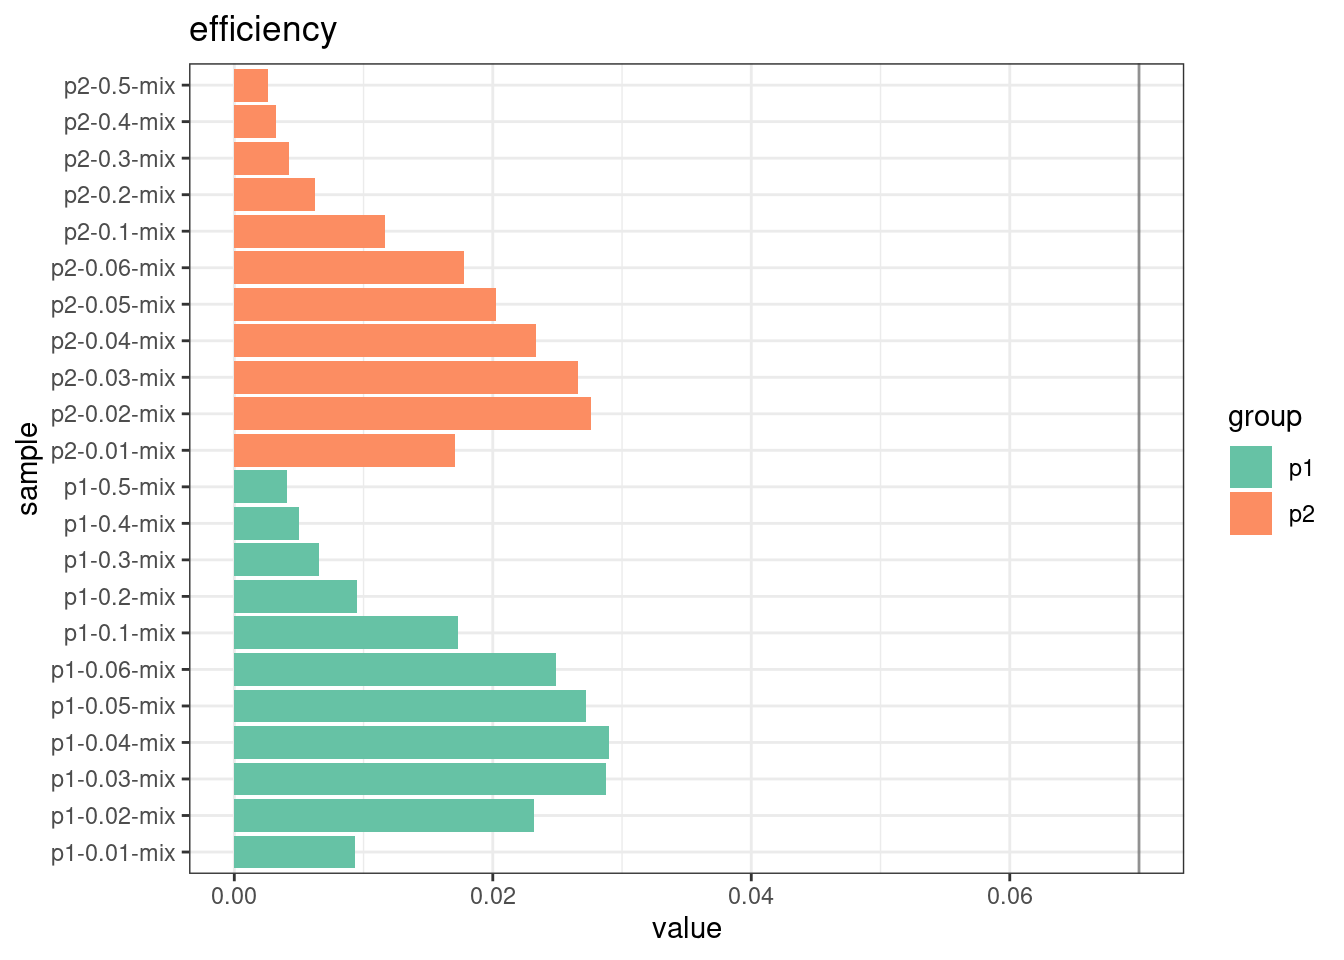
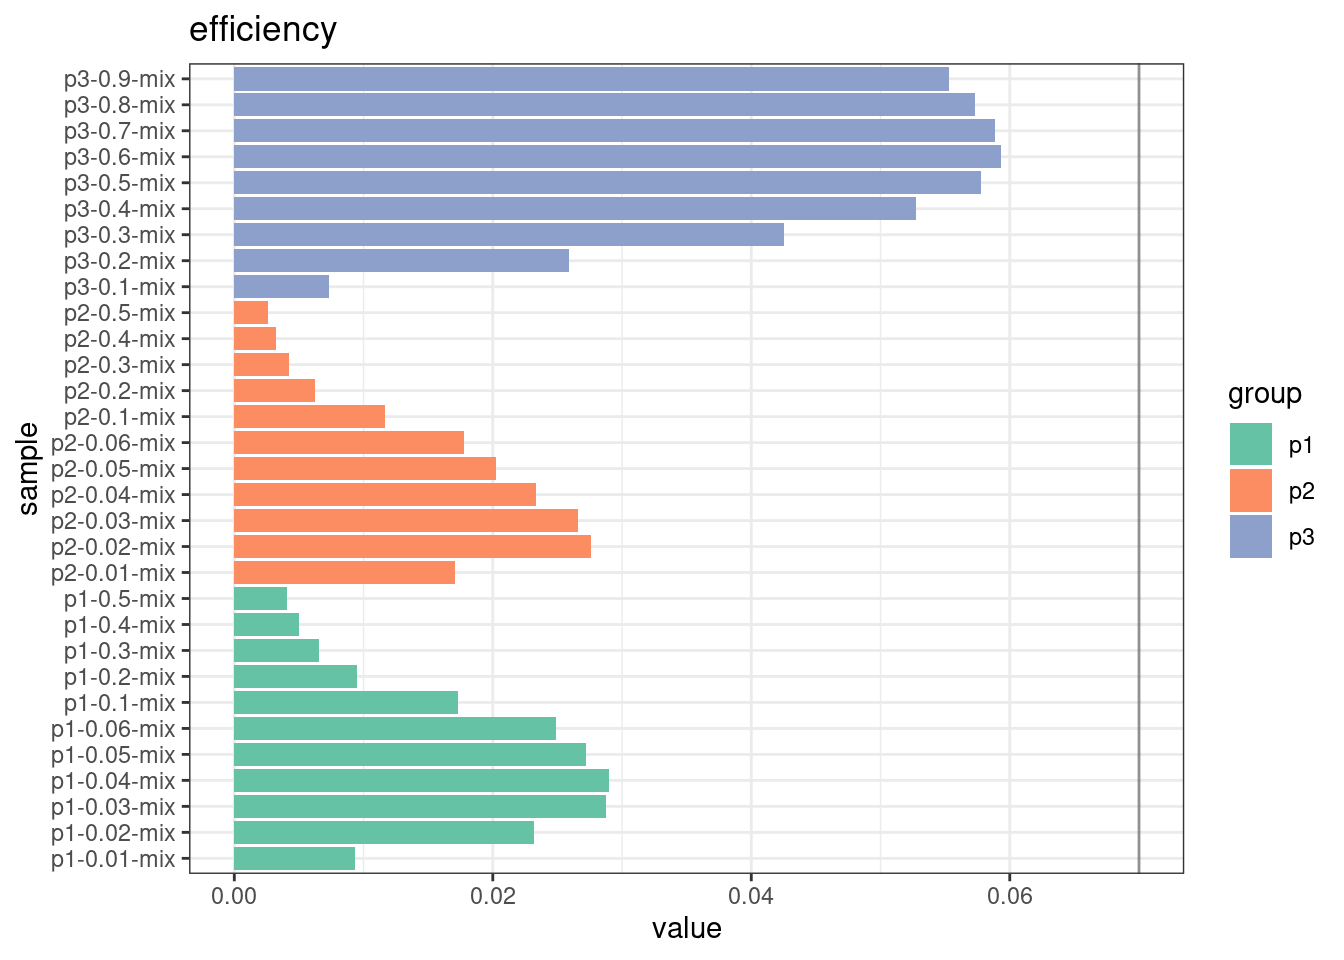
Build site.

Changed region(s): [[0.0312, 0.0625, 0.75, 0.9062], [0.9062, 0.4062, 1.0, 0.5938]]

diff --git a/docs/downsampling.html b/docs/downsampling.html
@@ -407,7 +407,7 @@ class="glyphicon glyphicon-ok text-success" aria-hidden="true"></span>
 <div class="tab-content">
 <div id="summary" class="tab-pane fade in active">
 <p>
-<strong>Last updated:</strong> 2022-08-24
+<strong>Last updated:</strong> 2022-09-09
 </p>
 <p>
 <strong>Checks:</strong> <span
@@ -538,15 +538,15 @@ project makes it easier to run your code on other machines.</p>
 <div class="panel panel-default">
 <div class="panel-heading">
 <p class="panel-title">
-<a data-toggle="collapse" data-parent="#workflowr-checks" href="#strongRepositoryversionstrongahrefhttpsgithubcommcmeroraremutationdetectiontreee66471eae94cc4c363550dad083deddf263110eatargetblanke66471ea">
+<a data-toggle="collapse" data-parent="#workflowr-checks" href="#strongRepositoryversionstrongahrefhttpsgithubcommcmeroraremutationdetectiontree62e155d6f9d0fe715a04380b1b9f894340ff5f15targetblank62e155da">
 <span class="glyphicon glyphicon-ok text-success"
 aria-hidden="true"></span> <strong>Repository version:</strong>
-<a href="https://github.com/mcmero/rare-mutation-detection/tree/e66471eae94cc4c363550dad083deddf263110ea" target="_blank">e66471e</a>
+<a href="https://github.com/mcmero/rare-mutation-detection/tree/62e155d6f9d0fe715a04380b1b9f894340ff5f15" target="_blank">62e155d</a>
 </a>
 </p>
 </div>
 <div
[2 lines of base64/hex data omitted]
 class="panel-collapse collapse">
 <div class="panel-body">
 <p>
@@ -556,7 +556,7 @@ reproducibility.
 </p>
 <p>
 The results in this page were generated with repository version
-<a href="https://github.com/mcmero/rare-mutation-detection/tree/e66471eae94cc4c363550dad083deddf263110ea" target="_blank">e66471e</a>.
+<a href="https://github.com/mcmero/rare-mutation-detection/tree/62e155d6f9d0fe715a04380b1b9f894340ff5f15" target="_blank">62e155d</a>.
 See the <em>Past versions</em> tab to see a history of the changes made
 to the R Markdown and HTML files.
 </p>
@@ -586,11 +586,15 @@ Untracked files:
     Untracked:  analysis/calc_nanoseq_metrics.Rmd
     Untracked:  data/._metrics.rds
     Untracked:  data/ecoli/
+    Untracked:  data/ecoli_k12_metrics.rds
     Untracked:  data/metadata/
     Untracked:  data/metrics_efficiency_nossc.rds
     Untracked:  data/mixtures
     Untracked:  data/ref/
     Untracked:  prototype_code/
+
+Unstaged changes:
+    Modified:   analysis/ecoli_K12.Rmd
 
 </code></pre>
 <p>
@@ -636,6 +640,40 @@ Message
 </tr>
 </thead>
 <tbody>
+<tr>
+<td>
+Rmd
+</td>
+<td>
+<a href="https://github.com/mcmero/rare-mutation-detection/blob/62e155d6f9d0fe715a04380b1b9f894340ff5f15/analysis/downsampling.Rmd" target="_blank">62e155d</a>
+</td>
+<td>
+Marek Cmero
+</td>
+<td>
+2022-09-09
+</td>
+<td>
+Added NanoSeq MB2 Rep1 downsampling experiment
+</td>
+</tr>
+<tr>
+<td>
+html
+</td>
+<td>
+<a href="https://rawcdn.githack.com/mcmero/rare-mutation-detection/2a208e678c994d5f51e4ecd38b9595ab50feb51e/docs/downsampling.html" target="_blank">2a208e6</a>
+</td>
+<td>
+Marek Cmero
+</td>
+<td>
+2022-08-24
+</td>
+<td>
+Build site.
+</td>
+</tr>
 <tr>
 <td>
 Rmd
@@ -839,6 +877,17 @@ Date
 <tbody>
 <tr>
 <td>
+<a href="https://github.com/mcmero/rare-mutation-detection/blob/2a208e678c994d5f51e4ecd38b9595ab50feb51e/docs/figure/downsampling.Rmd/plot_by_sample-1.png" target="_blank">2a208e6</a>
+</td>
+<td>
+Marek Cmero
+</td>
+<td>
+2022-08-24
+</td>
+</tr>
+<tr>
+<td>
 <a href="https://github.com/mcmero/rare-mutation-detection/blob/4ae6aec57db38d45a48cbf96c80ad1bfc063a1c7/docs/figure/downsampling.Rmd/plot_by_sample-1.png" target="_blank">4ae6aec</a>
 </td>
 <td>
@@ -906,6 +955,17 @@ Date
 <tbody>
 <tr>
 <td>
+<a href="https://github.com/mcmero/rare-mutation-detection/blob/2a208e678c994d5f51e4ecd38b9595ab50feb51e/docs/figure/downsampling.Rmd/duplicate_rate-1.png" target="_blank">2a208e6</a>
+</td>
+<td>
+Marek Cmero
+</td>
+<td>
+2022-08-24
+</td>
+</tr>
+<tr>
+<td>
 <a href="https://github.com/mcmero/rare-mutation-detection/blob/4ae6aec57db38d45a48cbf96c80ad1bfc063a1c7/docs/figure/downsampling.Rmd/duplicate_rate-1.png" target="_blank">4ae6aec</a>
 </td>
 <td>
@@ -969,6 +1029,17 @@ Date
 </tr>
 </thead>
 <tbody>
+<tr>
+<td>
+<a href="https://github.com/mcmero/rare-mutation-detection/blob/2a208e678c994d5f51e4ecd38b9595ab50feb51e/docs/figure/downsampling.Rmd/singletons-1.png" target="_blank">2a208e6</a>
+</td>
+<td>
+Marek Cmero
+</td>
+<td>
+2022-08-24
+</td>
+</tr>
 <tr>
 <td>
 <a href="https://github.com/mcmero/rare-mutation-detection/blob/4ae6aec57db38d45a48cbf96c80ad1bfc063a1c7/docs/figure/downsampling.Rmd/singletons-1.png" target="_blank">4ae6aec</a>
@@ -1044,6 +1115,17 @@ Date
 <tbody>
 <tr>
 <td>
+<a href="https://github.com/mcmero/rare-mutation-detection/blob/2a208e678c994d5f51e4ecd38b9595ab50feb51e/docs/figure/downsampling.Rmd/drop_out_rate-1.png" target="_blank">2a208e6</a>
+</td>
+<td>
+Marek Cmero
+</td>
+<td>
+2022-08-24
+</td>
+</tr>
+<tr>
+<td>
 <a href="https://github.com/mcmero/rare-mutation-detection/blob/4ae6aec57db38d45a48cbf96c80ad1bfc063a1c7/docs/figure/downsampling.Rmd/drop_out_rate-1.png" target="_blank">4ae6aec</a>
 </td>
 <td>
@@ -1107,6 +1189,17 @@ Date
 </tr>
 </thead>
 <tbody>
+<tr>
+<td>
+<a href="https://github.com/mcmero/rare-mutation-detection/blob/2a208e678c994d5f51e4ecd38b9595ab50feb51e/docs/figure/downsampling.Rmd/efficiency-1.png" target="_blank">2a208e6</a>
+</td>
+<td>
+Marek Cmero
+</td>
+<td>
+2022-08-24
+</td>
+</tr>
 <tr>
 <td>
 <a href="https://github.com/mcmero/rare-mutation-detection/blob/4ae6aec57db38d45a48cbf96c80ad1bfc063a1c7/docs/figure/downsampling.Rmd/efficiency-1.png" target="_blank">4ae6aec</a>
@@ -1178,6 +1271,17 @@ Date
 <tbody>
 <tr>
 <td>
+<a href="https://github.com/mcmero/rare-mutation-detection/blob/2a208e678c994d5f51e4ecd38b9595ab50feb51e/docs/figure/downsampling.Rmd/gc_deviation-1.png" target="_blank">2a208e6</a>
+</td>
+<td>
+Marek Cmero
+</td>
+<td>
+2022-08-24
+</td>
+</tr>
+<tr>
+<td>
 <a href="https://github.com/mcmero/rare-mutation-detection/blob/4ae6aec57db38d45a48cbf96c80ad1bfc063a1c7/docs/figure/downsampling.Rmd/gc_deviation-1.png" target="_blank">4ae6aec</a>
 </td>
 <td>
@@ -1243,6 +1347,17 @@ Date
 <tbody>
 <tr>
 <td>
+<a href="https://github.com/mcmero/rare-mutation-detection/blob/2a208e678c994d5f51e4ecd38b9595ab50feb51e/docs/figure/downsampling.Rmd/duplex_coverage_ratio-1.png" target="_blank">2a208e6</a>
+</td>
+<td>
+Marek Cmero
+</td>
+<td>
+2022-08-24
+</td>
+</tr>
+<tr>
+<td>
 <a href="https://github.com/mcmero/rare-mutation-detection/blob/4ae6aec57db38d45a48cbf96c80ad1bfc063a1c7/docs/figure/downsampling.Rmd/duplex_coverage_ratio-1.png" target="_blank">4ae6aec</a>
 </td>
 <td>
@@ -1303,6 +1418,17 @@ Date
 </tr>
 </thead>
 <tbody>
+<tr>
+<td>
+<a href="https://github.com/mcmero/rare-mutation-detection/blob/2a208e678c994d5f51e4ecd38b9595ab50feb51e/docs/figure/downsampling.Rmd/family_sizes-1.png" target="_blank">2a208e6</a>
+</td>
+<td>
+Marek Cmero
+</td>
+<td>
+2022-08-24
+</td>
+</tr>
 <tr>
 <td>
 <a href="https://github.com/mcmero/rare-mutation-detection/blob/4ae6aec57db38d45a48cbf96c80ad1bfc063a1c7/docs/figure/downsampling.Rmd/family_sizes-1.png" target="_blank">4ae6aec</a>
@@ -1367,6 +1493,17 @@ Date
 <tbody>
 <tr>
 <td>
+<a href="https://github.com/mcmero/rare-mutation-detection/blob/2a208e678c994d5f51e4ecd38b9595ab50feb51e/docs/figure/downsampling.Rmd/family_stats-1.png" target="_blank">2a208e6</a>
+</td>
+<td>
+Marek Cmero
+</td>
+<td>
+2022-08-24
+</td>
+</tr>
+<tr>
+<td>
 <a href="https://github.com/mcmero/rare-mutation-detection/blob/4ae6aec57db38d45a48cbf96c80ad1bfc063a1c7/docs/figure/downsampling.Rmd/family_stats-1.png" target="_blank">4ae6aec</a>
 </td>
 <td>
@@ -1397,7 +1534,7 @@ Marek Cmero
 <pre class="r"><code>dvf &lt;- mm[mm$metric %in% c(&#39;duplicate_rate&#39;, &#39;efficiency&#39;),] %&gt;%
         reshape2::dcast(., sample ~ metric) %&gt;%
         mutate(group = gsub(&#39;-0\\.[0-9]+-mix&#39;, &#39;&#39;, sample),
-               sample = gsub(&#39;p1|p2|-|mix&#39;, &#39;&#39;, sample))
+               sample = gsub(&#39;p[0-9]|-|mix&#39;, &#39;&#39;, sample))
 
 ggplot(dvf, aes(duplicate_rate, efficiency, label = sample, colour = group)) +
     geom_text(vjust = -0.5) +
@@ -1428,6 +1565,17 @@ Date
 </tr>
 </thead>
 <tbody>
+<tr>
+<td>
+<a href="https://github.com/mcmero/rare-mutation-detection/blob/2a208e678c994d5f51e4ecd38b9595ab50feb51e/docs/figure/downsampling.Rmd/dup_vs_eff-1.png" target="_blank">2a208e6</a>
+</td>
+<td>
+Marek Cmero
+</td>
+<td>
+2022-08-24
+</td>
+</tr>
 <tr>
 <td>
 <a href="https://github.com/mcmero/rare-mutation-detection/blob/4ae6aec57db38d45a48cbf96c80ad1bfc063a1c7/docs/figure/downsampling.Rmd/dup_vs_eff-1.png" target="_blank">4ae6aec</a>
@@ -1466,7 +1614,16 @@ Marek Cmero
 19    0.2 0.006205110       0.942477    p2
 20    0.3 0.004245127       0.956784    p2
 21    0.4 0.003238568       0.964124    p2
-22    0.5 0.002620392       0.968663    p2</code></pre>
+22    0.5 0.002620392       0.968663    p2
+23    0.1 0.007324807       0.223345    p3
+24    0.2 0.025883250       0.372871    p3
+25    0.3 0.042500643       0.477532    p3
+26    0.4 0.052752617       0.553370    p3
+27    0.5 0.057747730       0.610244    p3
+28    0.6 0.059300720       0.654287    p3
+29    0.7 0.058824472       0.689125    p3
+30    0.8 0.057309689       0.717307    p3
+31    0.9 0.055289137       0.740505    p3</code></pre>
 <br>
 <p>
 <button type="button" class="btn btn-default btn-workflowr btn-workflowr-sessioninfo" data-toggle="collapse" data-target="#workflowr-sessioninfo" style="display: block;">
